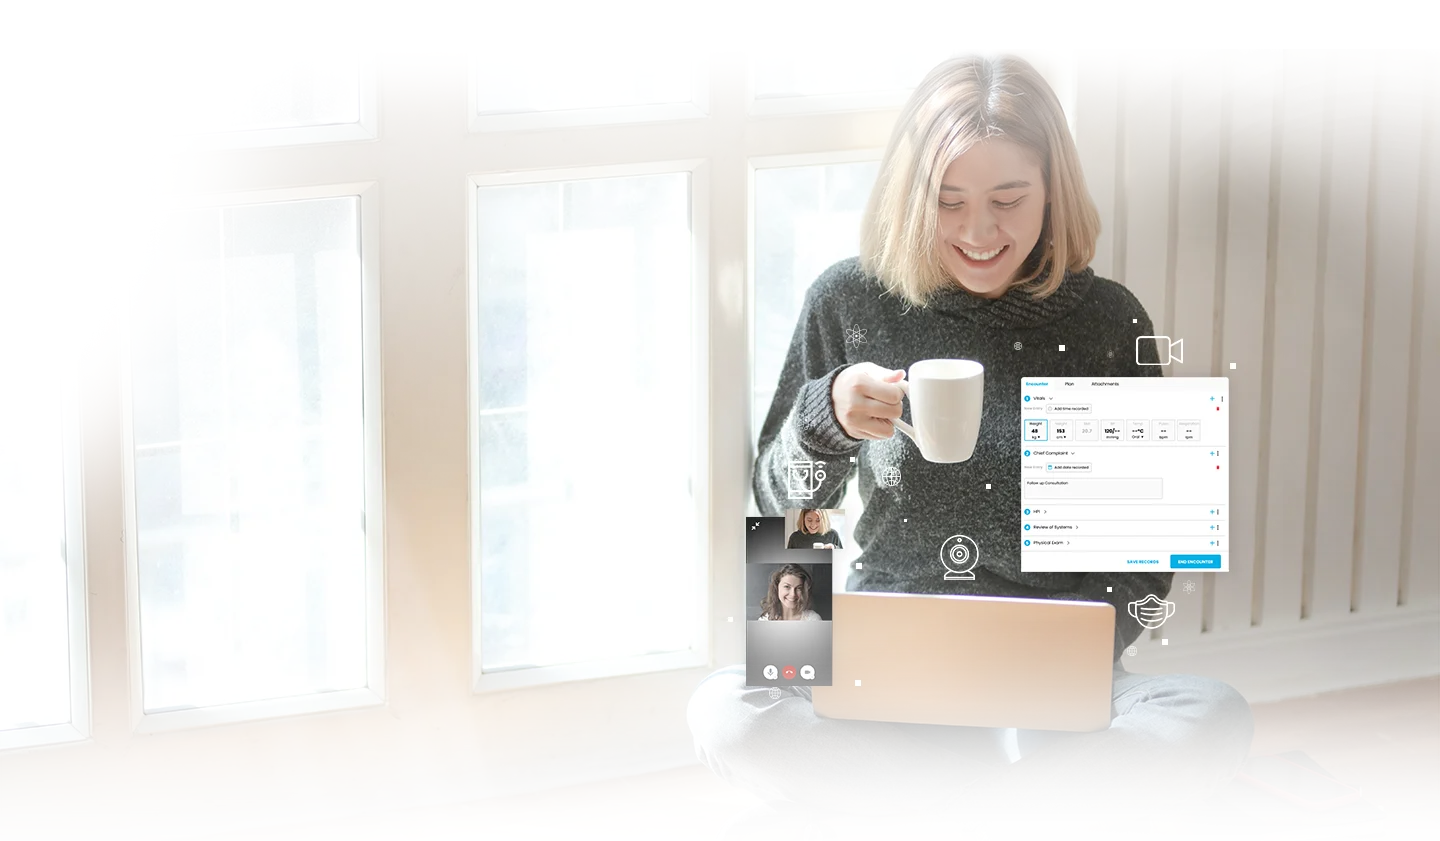
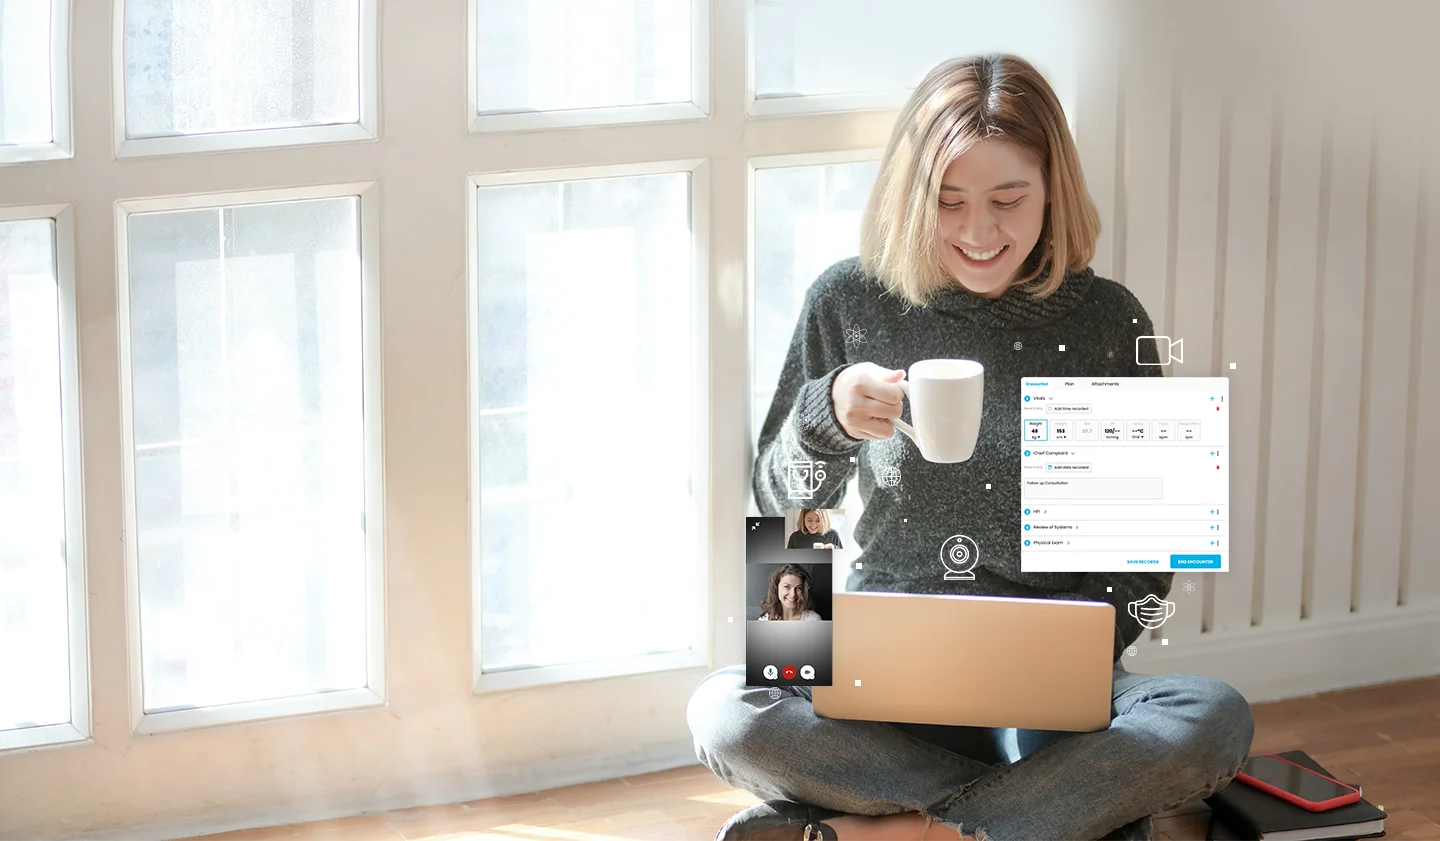
refactor: update usp and cta cover, adjust alignment
Resolves #369

diff --git a/components/doctors-clinics/cta/index.vue b/components/doctors-clinics/cta/index.vue
@@ -14,21 +14,21 @@
           :class="[{'web-content-margin': !$isMobile}]"
         ).cta-title
           h1.font-40.lh-title.panel-title {{ panelTitle }}
-          p.font-italic.mt-3.font-18.cta-subtitle {{ ctaSubtitle }}
-          div(v-if="!$isMobile").pt-5.text-field-container
+          p.font-italic.mt-6.font-18.cta-subtitle {{ ctaSubtitle }}
+          div(v-if="!$isMobile").py-5.text-field-container
             v-text-field(
               background-color="white"
               v-model="email"
               placeholder="myname@email.com"
               outlined
-            )
-          v-btn(
-            @click="onGetStarted"
-            color="accent"
-            block
-            large
-          ).mt-n3.text-none.font-weight-bold.font-18.cta-btn Get Started
-          p.mt-3.font-18.white--text.text-center.cta-agreement {{ ctaAgreement }}
+            ).input-field
+            v-btn(
+              height="55"
+              v-if="!$isMobile"
+              color="accent"
+              @click="onGetStarted"
+            ).text-none.font-weight-bold.font-18.btn-book Get Started
+          p.mt-3.font-18.white--text.cta-agreement {{ ctaAgreement }}
         v-col(cols="12" v-if="$isMobile")
           h1.font-40.lh-title.panel-title {{ panelTitle }}
           p.font-italic.mt-3.font-18.cta-subtitle {{ ctaSubtitle }}
@@ -60,7 +60,7 @@ export default {
     GenericBackgroundPanel,
   },
   data () {
-    this.backgroundImage = 'MYCURE-virtual-clinic-healthcare-practice-online-doctors-clinic-final-cta-cover.webp';
+    this.backgroundImage = 'MYCURE-virtual-clinic-healthcare-practice-online-doctors-clinic-final-cta-cover (1).webp';
     this.backgroundImageMobile = 'MYCURE-virtual-clinic-healthcare-practice-online-doctors-clinic-final-cta-cover-mobile.webp';
     this.panelTitle = 'Build your virtual clinic today.';
     this.ctaSubtitle = 'For Modern Doctors, Virtual is the new normal.';
@@ -98,6 +98,17 @@ export default {
 </script>
 
 <style scoped>
+.text-field-container {
+  display: flex;
+}
+.input-field {
+  width: 50%;
+  height: 58px;
+  border-radius: 5px;
+}
+.btn-book {
+  margin-left: 8px;
+}
 .web-content-margin {
   margin-top: 80px;
 }
@@ -155,7 +166,7 @@ export default {
     padding-top: 5%;
   }
   .cta-title {
-    padding-bottom: 7%;
+    padding-bottom: 10%;
   }
 }
 </style>

diff --git a/components/doctors-clinics/increase-revenue/index.vue b/components/doctors-clinics/increase-revenue/index.vue
@@ -63,7 +63,12 @@ a {
 }
 @media screen and (device-width: 1024px) {
   .increase-revenue-content {
-  margin-top: -90%;
+  margin-top: -70%;
+  }
+}
+@media screen and (min-width: 1366px) {
+  .increase-revenue-content {
+  margin-top: 10%;
   }
 }
 </style>
